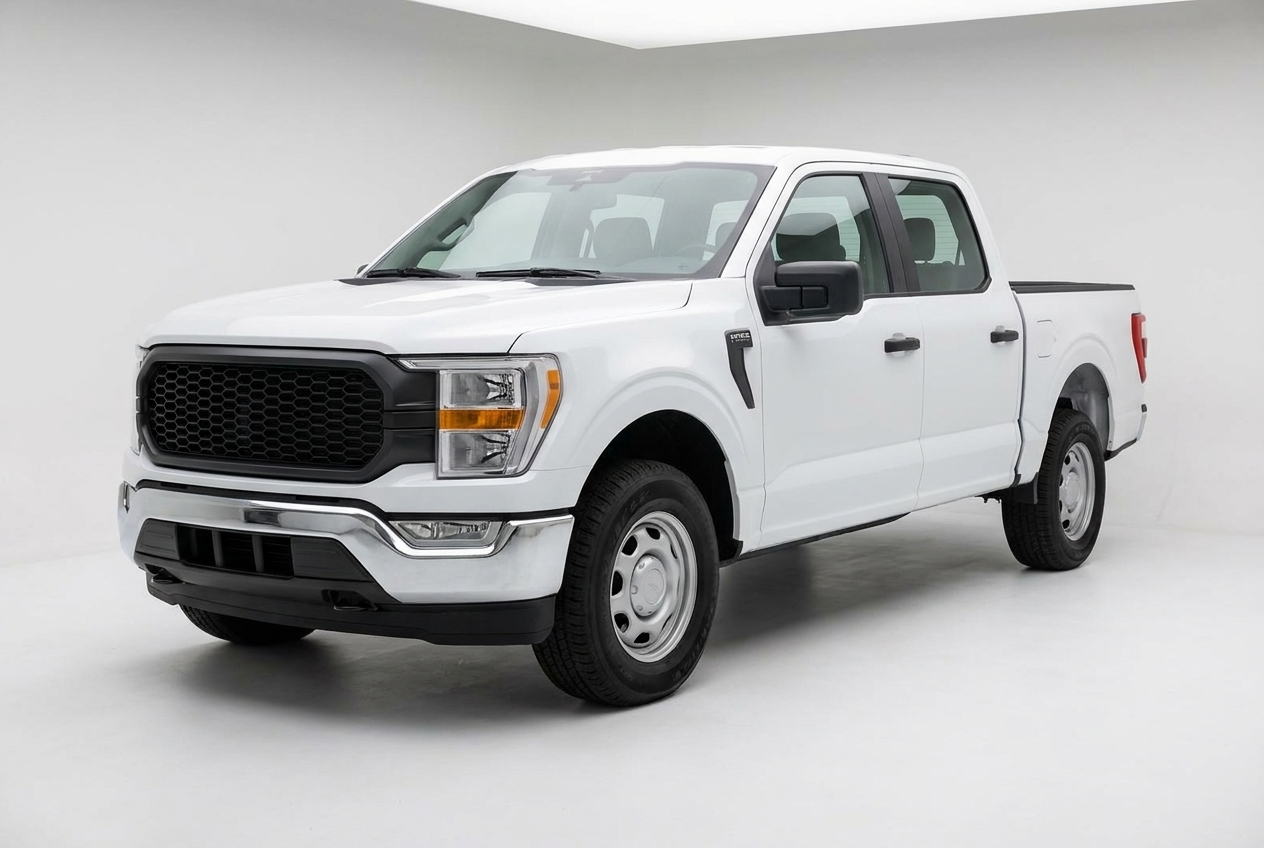
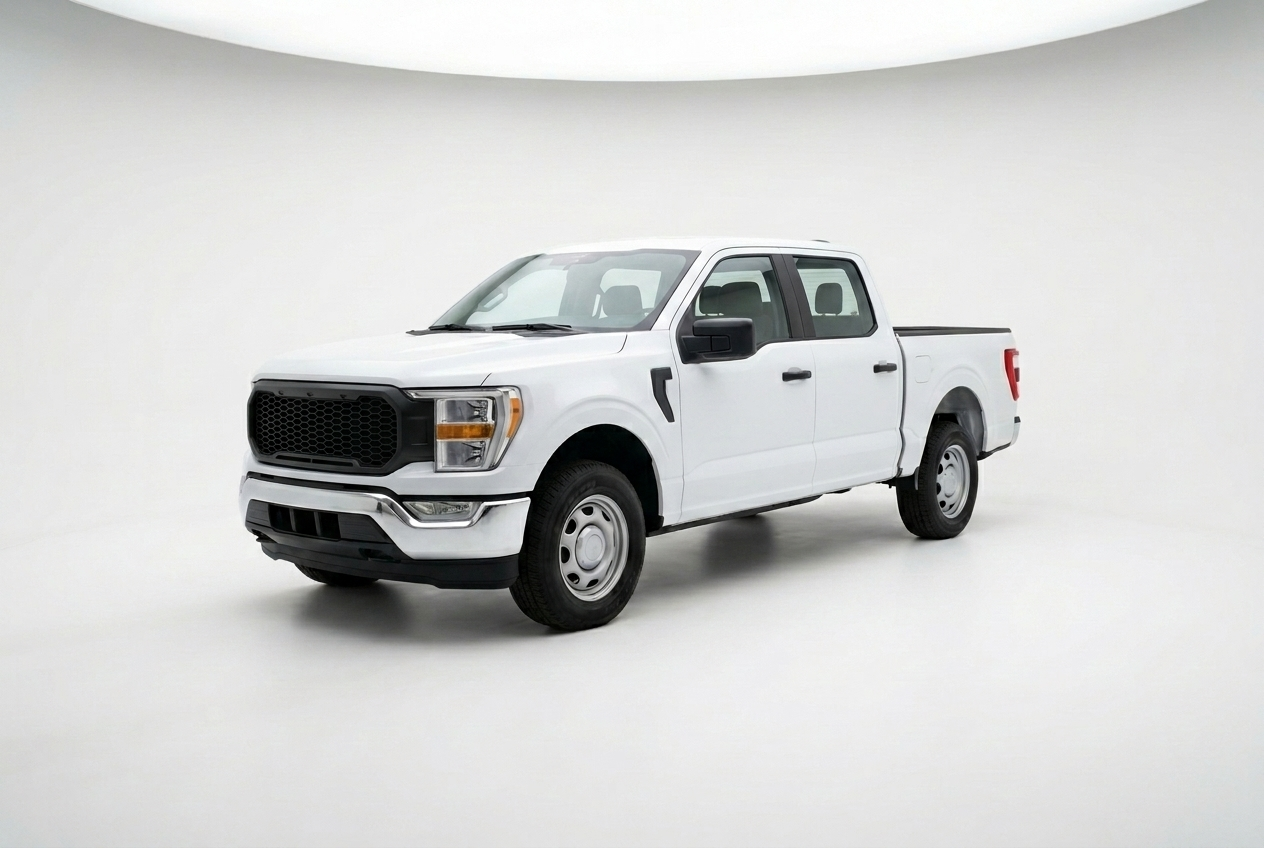
Cycle 14AP-fix8: front-grille toggle — image-EDIT mode for byte-identical pairs
Owner: "I need the before any after have the EXACT cars, EXACTY same
background, EXACT same size, EXACT same location and position, the
only difference should be with or without the front grille."

The fundamental limitation: Gemini text-to-image is stochastic —
two calls with identical prompts produce two different photos. No
amount of prompt engineering ("EXACT SAME framing", "IDENTICAL camera
position", etc.) gets identical pixels. That's why the prior
fix6 round still drifted on angle, position, and lighting between
the stock and stehlen pair.

Real fix: image-EDIT mode. The script now detects "-stehlen" slugs
and routes them through a different code path:

  1. Read the corresponding "-stock" photo from disk
  2. Send THAT photo to Gemini as the primary input
  3. Ask Gemini to ONLY swap the grille — every other pixel
     unchanged

Specifically the edit prompt locks down:
  * The vehicle (same Ford F-150, same trim, same paint)
  * The bumper (same finish, shape, position)
  * The wheels and tires
  * The camera angle, position, focal length
  * The lighting (key direction, intensity, shadows)
  * The background (white seamless cyclorama)
  * The vehicle's position in the frame
  * Every other body panel, badge, mirror, headlight, fender

The ONLY pixels that change are inside the front grille opening.
Customer can flip back and forth between STOCK and + STEHLEN GRILLE
and see ONLY the grille difference — true 1:1 toggle.
[…]

diff --git a/scripts/regen-dimension-chip-photos.ts b/scripts/regen-dimension-chip-photos.ts
@@ -265,7 +265,43 @@ async function generateOne(
   spec: (typeof CHIPS)[number],
   brandReferenceBytes: Buffer | null,
 ): Promise<void> {
-  const prompt = `${SYSTEM_PROMPT}
+  // Cycle 14AP-fix8 (owner): for "-stehlen" front-grille variants, use
+  // image-EDIT mode — read the corresponding "-stock" photo from disk
+  // and ask Gemini to ONLY swap the grille, keeping the rest of the
+  // photo byte-identical. Two text-to-image calls cannot produce
+  // identical output (Gemini is stochastic); image-edit is the only
+  // way to get a true 1:1 toggle pair.
+  const isStehlenVariant = spec.slug.endsWith("-stehlen");
+  let editBaseBytes: Buffer | null = null;
+  if (isStehlenVariant) {
+    const stockSlug = spec.slug.replace(/-stehlen$/, "-stock");
+    const stockPath = path.join(OUT_DIR, `${stockSlug}.jpg`);
+    try {
+      editBaseBytes = await fs.readFile(stockPath);
+    } catch {
+      throw new Error(
+        `image-edit base photo not found at ${stockPath} — generate the -stock variant first`,
+      );
+    }
+  }
+
+  const prompt = isStehlenVariant
+    ? `EDIT MODE: this photo is the BASE. You are editing it. Replace the factory front grille on the truck with a matte-black hex-mesh aftermarket grille (clean honeycomb pattern, no badging, no wordmark, no LED markers, no decoration — just a matte-black hex grille face).
+
+ABSOLUTE REQUIREMENTS — keep these IDENTICAL to the input photo:
+- The vehicle (same Ford F-150, same trim, same paint colour)
+- The bumper (same finish, same shape, same position)
+- The wheels and tires (same exact wheels, same exact tires)
+- The camera angle, position, and focal length
+- The lighting (same key light direction, same intensity, same shadows)
+- The background (pure white seamless cyclorama — same)
+- The vehicle's position in the frame (same composition, same crop)
+- Every other body panel, badge, mirror, headlight, fender — UNCHANGED
+
+The ONLY pixels that should change are inside the front grille opening. The customer must be able to flip back and forth between this output and the input and see ONLY the grille difference.
+
+Output: the edited photo as a 3:2 landscape image.`
+    : `${SYSTEM_PROMPT}
 
 Subject: ${spec.subject}
 Framing: ${spec.framing}
@@ -274,6 +310,16 @@ Intent (what the customer must instantly read): ${spec.intent}
 Generate the photo now.`;
 
   const parts: GeminiPart[] = [{ text: prompt }];
+  if (isStehlenVariant && editBaseBytes) {
+    // For edit mode the input photo is the primary content — pass it
+    // BEFORE the brand reference so Gemini treats it as the subject.
+    parts.push({
+      inlineData: {
+        mimeType: "image/jpeg",
+        data: editBaseBytes.toString("base64"),
+      },
+    });
+  }
   if (brandReferenceBytes) {
     parts.push({
       inlineData: {
